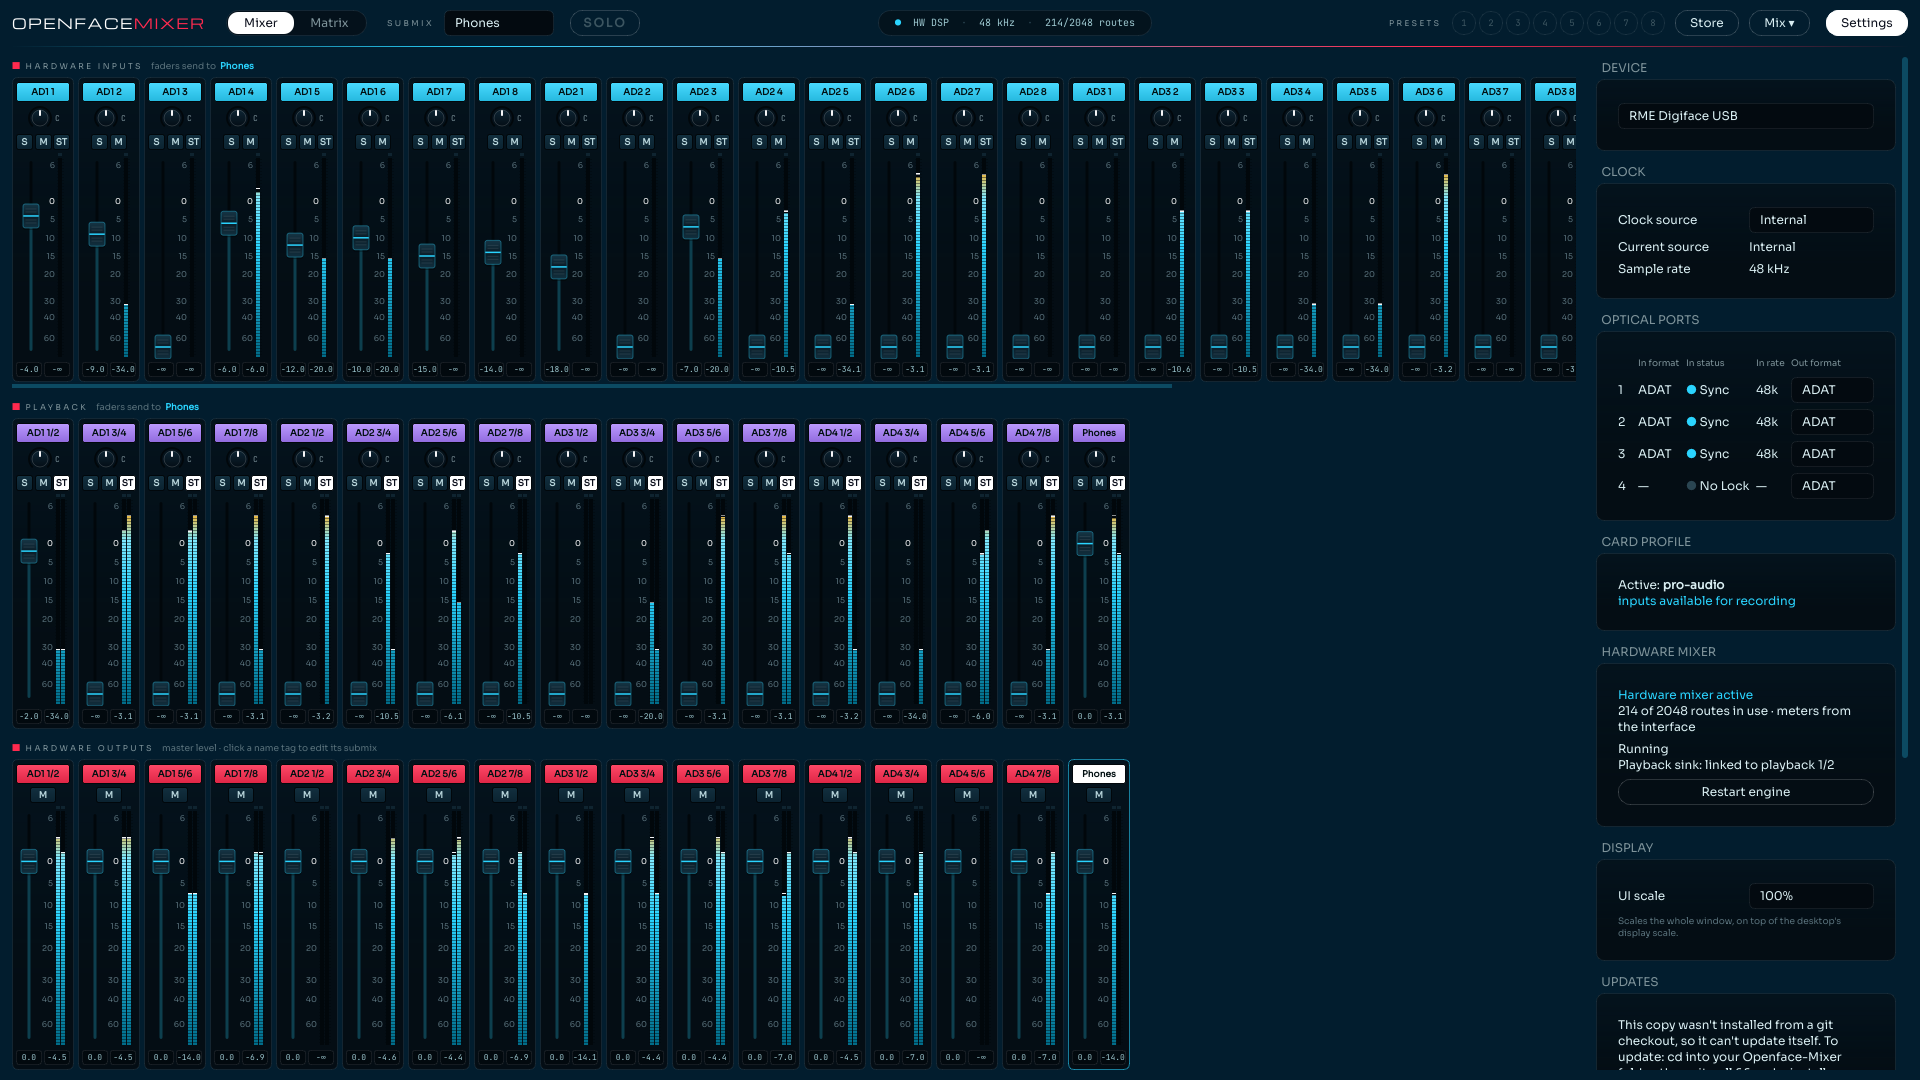
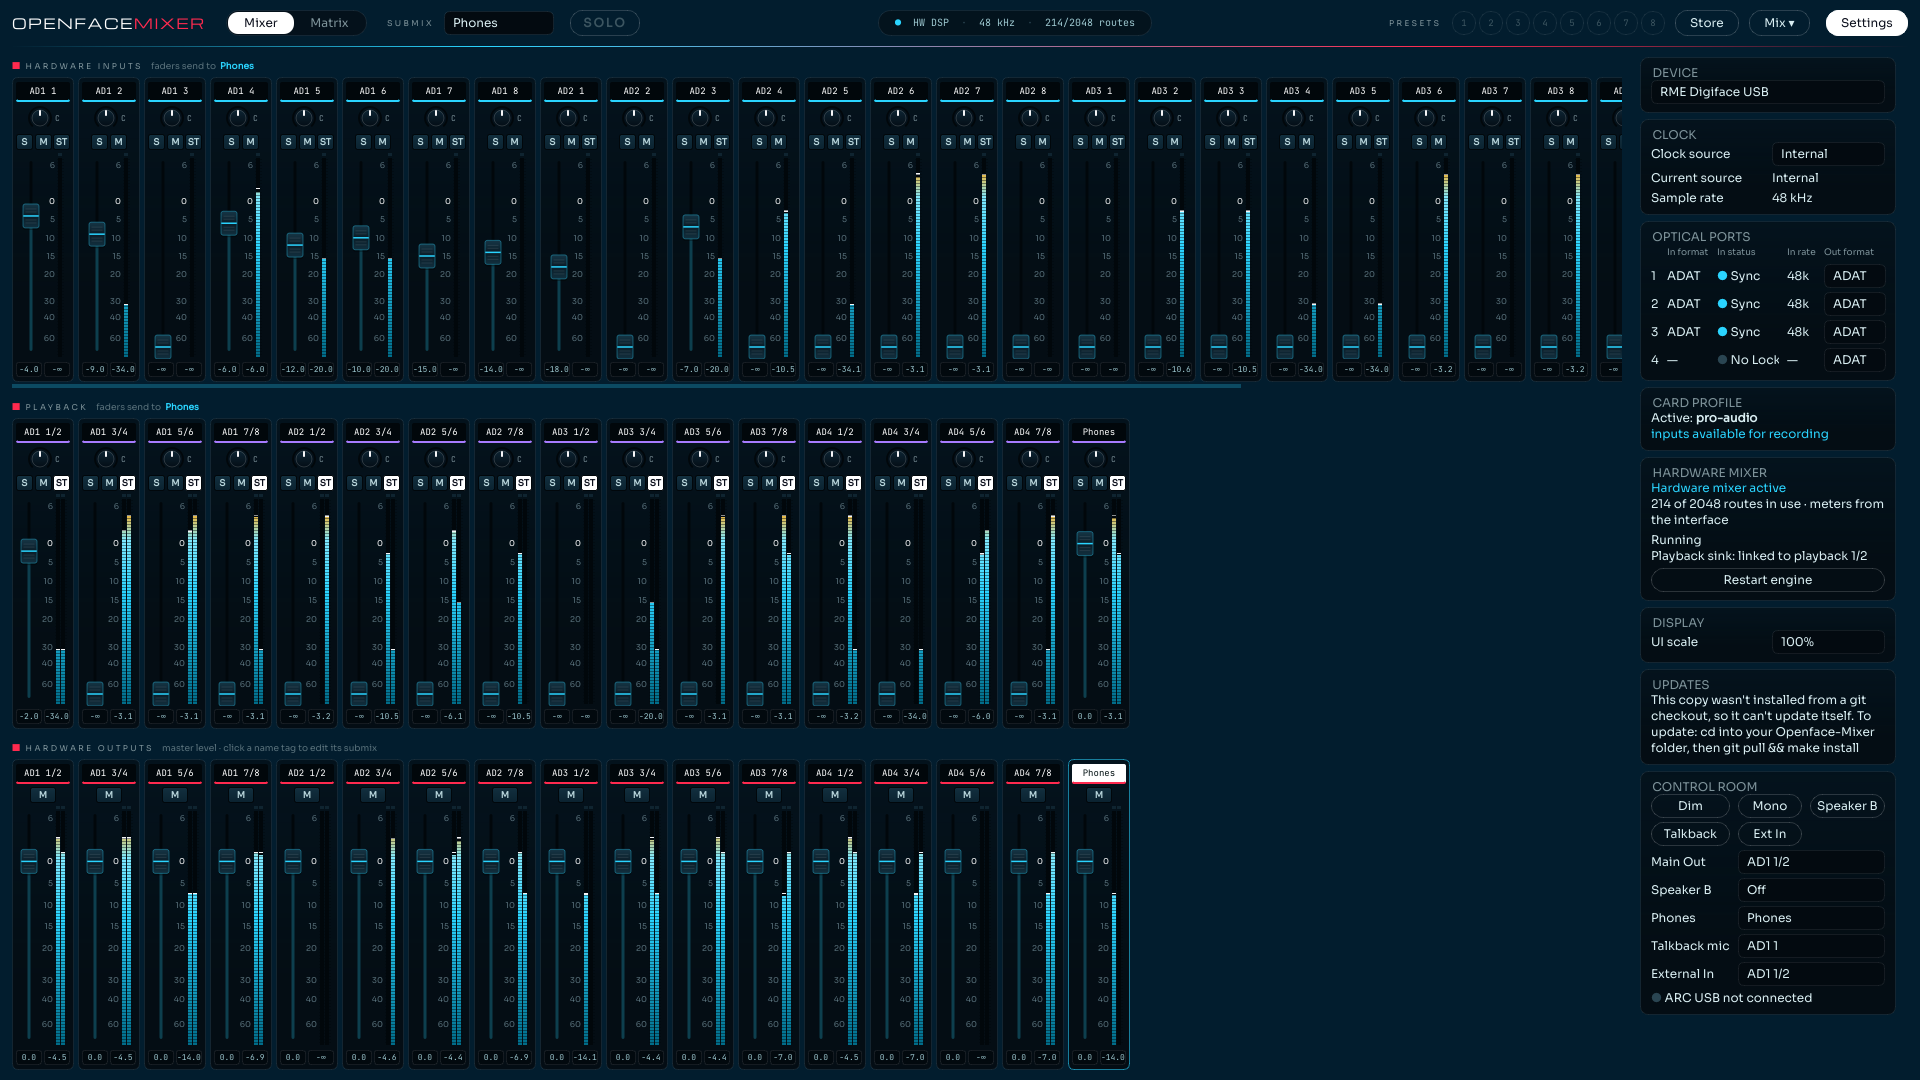
Mono channel labels and a more compact settings panel
Channel tags are dark with white monospace text and a line in the
channel's colour underneath (the solid tags were too loud). The settings
panel is narrower (264 px) with titles inside their boxes and tighter
margins; the DSP note moved to the Hardware Mixer box's tooltip and the
UI scale note only shows when a restart is needed. Long checkbox labels
shortened to fit.

Claude-Session: https://claude.ai/code/session_01D8Nod7BbDFQApq7NwiMX6C

diff --git a/openface_mixer/settings_panel.py b/openface_mixer/settings_panel.py
@@ -75,10 +75,10 @@ class SettingsPanel(QWidget):
         self.hw = hw
         self.dev = dev
         self.st = st
-        self.setFixedWidth(310)
+        self.setFixedWidth(264)
         lay = QVBoxLayout(self)
-        lay.setContentsMargins(10, 0, 0, 0)
-        lay.setSpacing(10)
+        lay.setContentsMargins(8, 0, 0, 0)
+        lay.setSpacing(6)
 
         box = QGroupBox("DEVICE")
         bl = QVBoxLayout(box)
@@ -116,15 +116,12 @@ class SettingsPanel(QWidget):
         self._build_ui_scale(lay, ui_scale)
         self._build_updates(lay)
 
-        note = QLabel(
-            f"<span style='color:#58707a;font-size:9px'>All mixing happens in the {dev.name}'s "
-            "own DSP, like TotalMix: input monitoring has no added latency and the mix keeps "
-            f"running with the computer idle or the engine stopped.<br><br>Playback "
-            f"{dev.sink_channels} = the "
-            "<i>Openface Mixer Playback</i> sink. Other playback channels: send apps to the "
-            "interface's own output channels (Pro Audio profile) with qpwgraph/Helvum.</span>")
-        note.setWordWrap(True)
-        lay.addWidget(note)
+        eng.setToolTip(
+            f"All mixing happens in the {dev.name}'s own DSP, like TotalMix: input monitoring "
+            "has no added latency and the mix keeps running with the computer idle or the "
+            f"engine stopped.\n\nPlayback {dev.sink_channels} = the Openface Mixer Playback "
+            "sink. Other playback channels: send apps to the interface's own output channels "
+            "(Pro Audio profile) with qpwgraph/Helvum.")
         lay.addStretch()
 
     def _build_ui_scale(self, lay, scale):
@@ -140,8 +137,11 @@ class SettingsPanel(QWidget):
         self.scale_combo.setCurrentIndex(self._scale_index(scale))
         self.scale_combo.activated.connect(self._scale_activated)
         dl.addWidget(self.scale_combo, 0, 1)
-        self.scale_note = QLabel("Scales the whole window, on top of the desktop's display scale.")
+        self.scale_combo.setToolTip("Scales the whole window, on top of the desktop's display "
+                                    "scale.")
+        self.scale_note = QLabel("Restart Openface Mixer to apply the new scale.")
         self.scale_note.setWordWrap(True)
+        self.scale_note.setVisible(False)
         self.scale_note.setStyleSheet("color:#58707a;font-size:9px")
         dl.addWidget(self.scale_note, 1, 0, 1, 2)
         self.scale_restart = QPushButton("Restart to apply")
@@ -159,9 +159,7 @@ class SettingsPanel(QWidget):
     def _scale_activated(self, i):
         scale = float(self.scale_combo.itemData(i))
         changed = abs(scale - self._scale_at_start) > 1e-6
-        self.scale_note.setText("Restart Openface Mixer to apply the new scale." if changed
-                                else "Scales the whole window, on top of the desktop's "
-                                     "display scale.")
+        self.scale_note.setVisible(changed)
         self.scale_restart.setVisible(changed)
         self.ui_scale_changed.emit(scale)
 
@@ -295,7 +293,7 @@ class SettingsPanel(QWidget):
             combo.activated.connect(lambda i, c=combo, k=key: self._set_hw(k, c.itemData(i)))
             ol.addWidget(QLabel(label), r, 0)
             ol.addWidget(combo, r, 1)
-        single = QCheckBox("Word clock out always single speed")
+        single = QCheckBox("Word clock out: single speed")
         single.setChecked(hw["word_single"])
         single.toggled.connect(lambda on: self._set_hw("word_single", on))
         ol.addWidget(single, len(rows), 0, 1, 2)
@@ -386,7 +384,7 @@ class SettingsPanel(QWidget):
         r = len(rows)
         for key, label in (("emphasis", "S/PDIF out emphasis"),
                            ("non_audio", "S/PDIF out non-audio"),
-                           ("word_single", "Word clock out always single speed")):
+                           ("word_single", "Word clock out: single speed")):
             box = QCheckBox(label)
             box.toggled.connect(lambda on, k=key: self._set_hw(k, on))
             ol.addWidget(box, r, 0, 1, 2)

diff --git a/openface_mixer/theme.py b/openface_mixer/theme.py
@@ -42,6 +42,21 @@ def load_fonts():
         QFontDatabase.addApplicationFont(str(f))
 
 
+def compact_boxes(panel):
+    """Tight margins in the settings panel's boxes (titles sit inside them, see QGroupBox)."""
+    from PySide6.QtWidgets import QGridLayout, QGroupBox
+    for box in panel.findChildren(QGroupBox):
+        lay = box.layout()
+        if lay is None:
+            continue
+        lay.setContentsMargins(10, 2, 10, 8)
+        if isinstance(lay, QGridLayout):
+            lay.setHorizontalSpacing(8)
+            lay.setVerticalSpacing(4)
+        else:
+            lay.setSpacing(4)
+
+
 def apply_theme(app):
     load_fonts()
     app.setStyle("Fusion")
@@ -98,7 +113,7 @@ def apply_theme(app):
         QLabel#lcd {{ background:rgba(4,12,18,0.6); color:{s}; border:1px solid {HAIR};
                      border-radius:13px; padding:5px 16px; font-family:{MONO}; font-size:10px; }}
         QLabel#caption {{ color:{d}; font-size:8px; font-weight:600; }}
-        QComboBox {{ background:#030a10; border:1px solid {HAIR}; border-radius:6px; padding:3px 10px;
+        QComboBox {{ background:#030a10; border:1px solid {HAIR}; border-radius:6px; padding:2px 8px;
                     color:{t}; }}
         QComboBox:hover, QComboBox:focus {{ border-color:{c}; }}
         QComboBox::drop-down {{ border:none; width:18px; }}
@@ -107,9 +122,12 @@ def apply_theme(app):
                                       selection-color:white; outline:0; }}
         QGroupBox {{ background:qlineargradient(y1:0,y2:1,stop:0 {INK},stop:0.7 {INK_DEEP});
                     border:1px solid {HAIR}; border-radius:8px;
-                    margin-top:22px; padding:14px 12px 12px 12px; }}
-        QGroupBox::title {{ subcontrol-origin:margin; left:4px; top:3px; color:{d};
-                           font-size:8px; font-weight:600; }}
+                    margin-top:0; padding-top:20px; }}
+        QGroupBox::title {{ subcontrol-origin:padding; subcontrol-position:top left; left:10px;
+                           top:7px; color:{d}; font-size:8px; font-weight:600; }}
+        QGroupBox QPushButton {{ padding:3px 6px; }}
+        QGroupBox QComboBox {{ padding:2px 4px 2px 8px; }}
+        QGroupBox QComboBox::drop-down {{ width:12px; }}
         QCheckBox::indicator {{ width:13px; height:13px; border:1px solid {HAIR_STRONG};
                                border-radius:7px; background:transparent; }}
         QCheckBox::indicator:checked {{ background:{c}; border-color:{c}; }}

diff --git a/openface_mixer/raydat.py b/openface_mixer/raydat.py
@@ -67,11 +67,11 @@ COMBOS = ("clock", "pref", "internal", "spdif_in")
 TOGGLES = (                               # (control, label); each shows when the driver has it
     ("S/PDIF Out Optical", "S/PDIF out optical (on ADAT 4)"),
     ("S/PDIF Out Professional", "S/PDIF out professional"),
-    ("Single Speed WordClock Out", "Word clock out always single speed"),     # snd-hdspm
-    ("Single Speed WordClk Out", "Word clock out always single speed"),       # snd-hdspe
+    ("Single Speed WordClock Out", "Word clock out: single speed"),  # snd-hdspm
+    ("Single Speed WordClk Out", "Word clock out: single speed"),    # snd-hdspe
     ("Clear TMS", "Clear track marker (TMS) bits"),
-    ("ADAT1 Internal", "ADAT 1 in from internal AEB/TEB board"),
-    ("ADAT2 Internal", "ADAT 2 in from internal AEB/TEB board"),
+    ("ADAT1 Internal", "ADAT 1 from AEB/TEB board"),
+    ("ADAT2 Internal", "ADAT 2 from AEB/TEB board"),
 )
 STATUS_INPUTS = (                         # (label, snd-hdspm sync check, frequency control)
     ("Word Clock", "WC SyncCheck", "WC Frequency"),

diff --git a/openface_mixer/widgets.py b/openface_mixer/widgets.py
@@ -295,12 +295,13 @@ def small_button(text, color="#2ad4ff", fg="#021012", tip="", width=26):
 
 
 def label_style(col, sel):
-    """Channel name tag: bright fill with dark bold text; the selected submix turns white."""
-    base = "border-radius:2px;padding:0 1px;font-size:9px;font-weight:700;border:1px solid #01070b;"
+    """Channel name tag: dark tag, white monospace text, a line in the channel's colour
+    underneath; the selected submix turns white."""
+    base = (f"border:none;border-radius:2px;padding:0 1px;font-family:{MONO};font-size:9px;"
+            f"font-weight:700;border-bottom:2px solid {col.name()};")
     if sel:
         return base + "background:white;color:#021012;"
-    return (base + f"background:qlineargradient(y1:0,y2:1,stop:0 {col.lighter(112).name()},"
-            f"stop:1 {col.darker(115).name()});color:#021012;")
+    return base + "background:#01070b;color:white;"
 
 
 def lcd_style(bg="rgba(1,7,11,0.7)", fg="#9cc7cf"):

diff --git a/openface_mixer/app.py b/openface_mixer/app.py
@@ -29,7 +29,7 @@ from .model import (
 )
 from .presets import PresetBank, export_mix, import_mix
 from .settings_panel import SettingsPanel
-from .theme import ACCENT, apply_theme
+from .theme import ACCENT, apply_theme, compact_boxes
 from .widgets import Row, Strip
 
 
@@ -86,7 +86,8 @@ class MainWindow(QMainWindow):
         self.settings.restart_requested.connect(self.restart_app)
         self.control = ControlRoomPanel(self.st)
         self.control.changed.connect(self.push_matrix)
-        self.settings.layout().insertWidget(self.settings.layout().count() - 2, self.control)
+        self.settings.layout().insertWidget(self.settings.layout().count() - 1, self.control)
+        compact_boxes(self.settings)
         self.arc = ArcLink(self)
         self.arc.key.connect(self.arc_key)
         self.arc.encoder.connect(self.arc_encoder)
